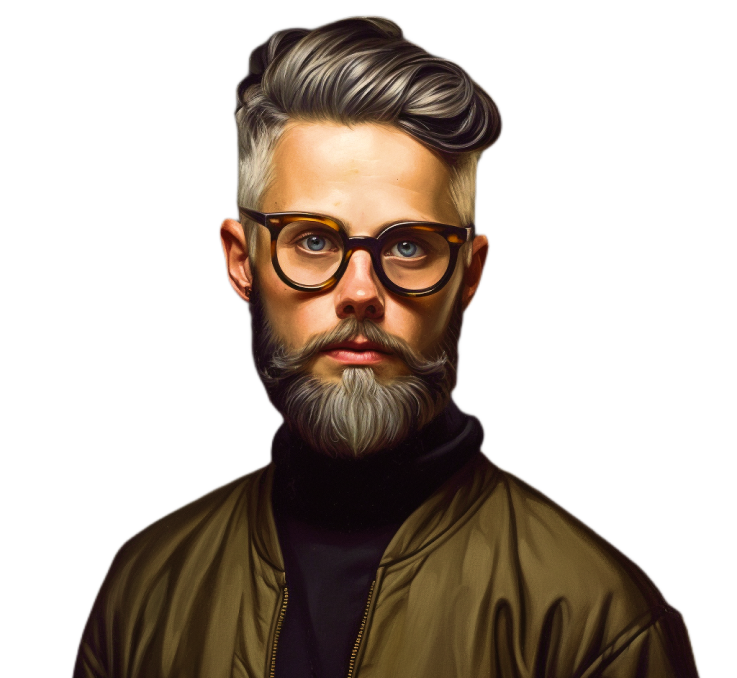
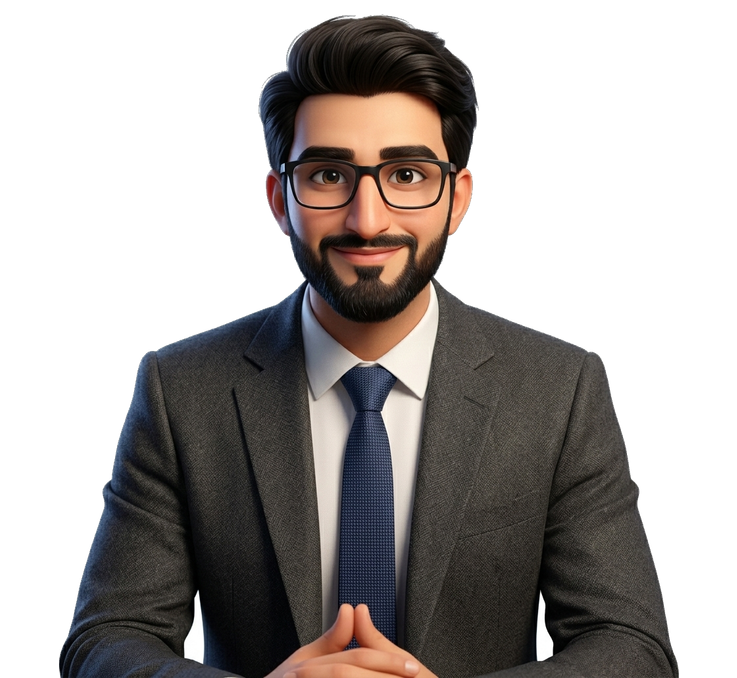
feat: add social links component and update profile information with .vercel ignore configuration

diff --git a/components/Socials.jsx b/components/Socials.jsx
@@ -1,7 +1,21 @@
 import Link from "next/link";
-import { RiGithubLine } from "react-icons/ri";
+import {
+  RiYoutubeLine,
+  RiFacebookLine,
+  RiGithubLine,
+} from "react-icons/ri";
 
 export const socialData = [
+  {
+    name: "YouTube",
+    link: "https://www.youtube.com/@AhmadMehmood-d6j",
+    Icon: RiYoutubeLine,
+  },
+  {
+    name: "Facebook",
+    link: "https://www.facebook.com/profile.php?id=61587796406931",
+    Icon: RiFacebookLine,
+  },
   {
     name: "Github",
     link: "https://github.com/Vantara-Digital",

diff --git a/README.md b/README.md
@@ -15,6 +15,8 @@ Built with **Next.js**, **React**, **Tailwind CSS**, and **Framer Motion**.
 - **Location**: Pakistan (Available Worldwide)
 - **Role**: Full-Stack Developer
 - **GitHub**: [@Vantara-Digital](https://github.com/Vantara-Digital)
+- **YouTube**: [@AhmadMehmood-d6j](https://www.youtube.com/@AhmadMehmood-d6j)
+- **Facebook**: [Ahmad Mehmood](https://www.facebook.com/profile.php?id=61587796406931)
 
 ---
 
